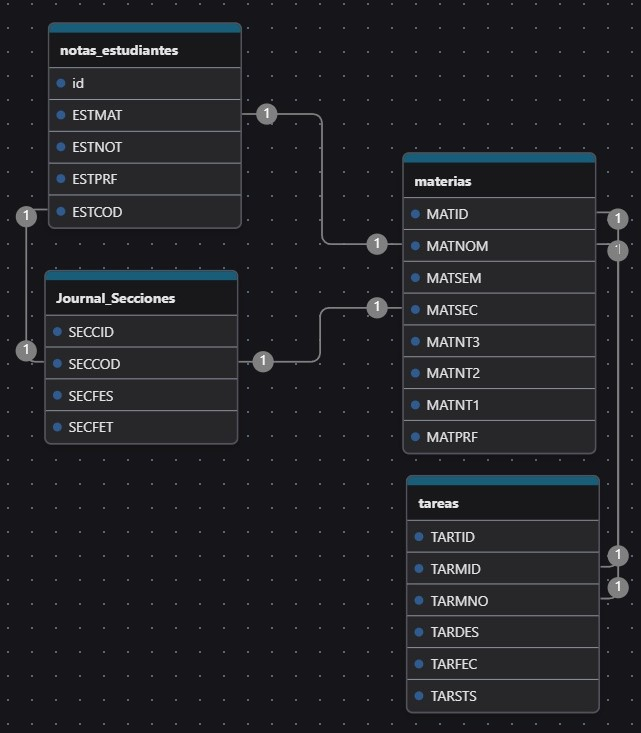
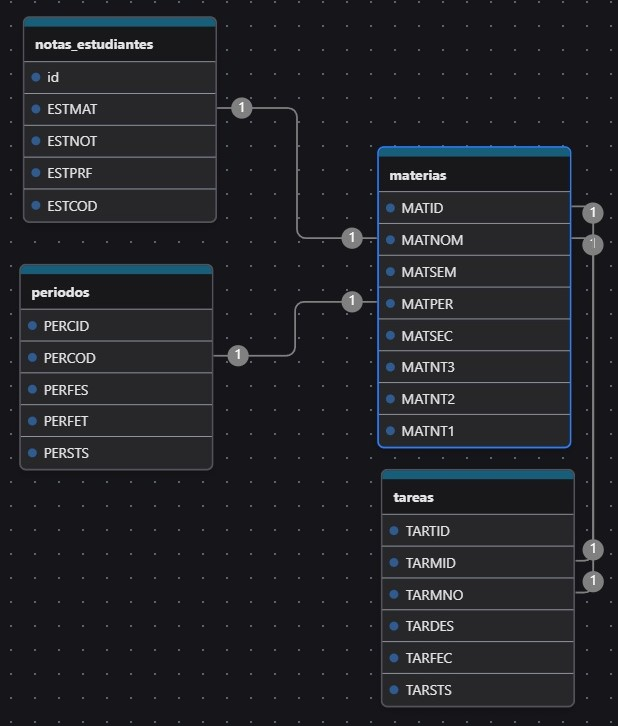
documentando

Changed region(s): [[0.0, 0.0, 0.9838, 1.0], [0.8301, 0.9697, 0.9223, 1.0]]

diff --git a/lib/sceens/form_add.dart b/lib/sceens/form_add.dart
@@ -81,7 +81,7 @@ class Widget107State extends State<Widget107> {
                       crossAxisAlignment: CrossAxisAlignment.start,
                       children: [
                         const Text(
-                          'Sección',
+                          'Periodo',
                           style: TextStyle(
                             fontSize: 16,
                             fontWeight: FontWeight.bold,

diff --git a/README.md b/README.md
@@ -10,19 +10,51 @@ Las herramientas utilizadas son:
 ---
 
 ## Versión actual
-Este proyecto actualmente me ayuda a tener un registro de las materias y tener acceso rápido a información relevante.\
-La tercera versión y la actual es la que más cambios conllevó, pues se agregó muchas pantallas y se hicieron modificaciones a como funciona los registros.\
+Este proyecto actualmente me ayuda a tener un registro de las materias y tener acceso rápido a información relevante.
+La tercera versión y la actual es la que más cambios conllevó, pues se agregó muchas pantallas y se hicieron modificaciones a como funciona los registros.
 
-Pero antes de empezar, la filosfía de los registros.\
-Un semestre o cuatrimestre se definen como periodos "períodos academicos". Pueden haber varíos por años (En mi caso son tres cuatrimestres al año). Y cada uno posee sus propias materias.\
+Pero antes de empezar, la filosfía de los registros.
+Un semestre o cuatrimestre se definen como "períodos academicos". Pueden haber varíos por años (En mi caso son tres cuatrimestres al año). Y cada uno posee sus propias materias.
 
 Diferentes períodos pueden tener "la misma materia". Pues, aunque tengan el mismo nombre, a nivel de base de datos estas se diferencian por el ID.
 
 ### Base de datos
-Primero, la base de datos consta de más tablas y es más compleja.
+Primero, la base de datos.
+Se agregarón nuevos campos a la tabla de materias y se agregó una nueva tabla el cual se encarga de guardar los períodos. Solo puede existir un periodo activo a la vez.
 
 ![Diagrama entidad relación DB actual](./doc-media/V3-DB-Entidad-Relacion.jpeg)
 
+Los campos de la table tiene esa nomenclatura donde las tres primeras letras representa la tabla y los otros tres el campo en sí, porque así se maneja en mi trabajo y así plantee los nombres cuando empecé el proyectos (cosas de trabajar con AS400).
+
+### Pantalla principal
+La pantalla principal muestra todas las materias a través de una consulta de la base de datos, se puede añadir materias presionando el boton en la esquina inferior derecha. Al finalizar las materias se encuentra el promedio y despues las tareas.
+
+![v3 pantalla principal](./doc-media/V3-pantalla-principal.jpg)
+
+Hay 3 archivos que son básicamente la misma pantalla, pero con diferentes consultas a la base de datos. El primero, el que accede por defecto, muestra el período marcado como "período actual". El segundo muestra el período seleccionado en el menú lateral. Y el tercero muestra todas las materias.
+Es de esta manera, basicamente porque fue la solución que se me ocurrió. Estoy buscando una manera de optimizarlo para no tener que depender en 3 archivos que consta del mismo código.
+
+### Menu lateral
+La aplicación posee un menú lateral donde se puede acceder a los períodos creados, crear un nuevo período, acceder a una pantalla con todas las materias sin importar el período y cambiar entre el tema claro y oscuro.
+
+![V3 Menu lateral](./doc-media/V3-sidebar.jpg)
+
+Actualmente solo se puede crear períodos, pero no hay una pantalla donde se pueda modificar o eliminar.
+
+### Materia detallada
+Al presionar una de las materias en la pantalla principal te dirige a una pantalla con toda la información de la materia. Al presionar el boton en la esquina inferior derecha te permite modificar los datos.
+
+![V3 materia detallada](./doc-media/V3-detalle-materia.jpg)
+
+### Tareas
+Las tareas poseen diferentes colores dependiendo del estatus que se le asigna:
+- Pendiente: gris
+- Finalizada: Verde
+- Incompleta: Rojo
+
+![V3 pantalla principal con tareas](./doc-media/V3-tareas.jpg)
+
+Y al presionar una de estos te permite modificarlo.
 
 ---
 
